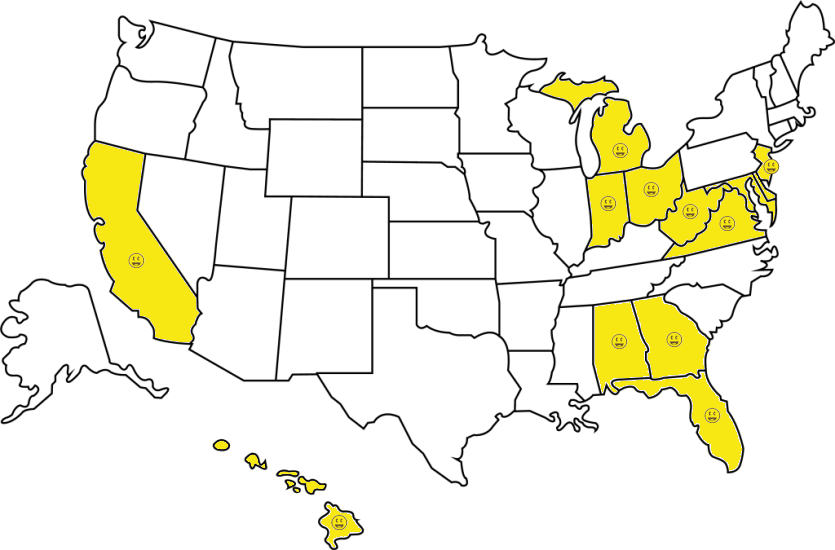
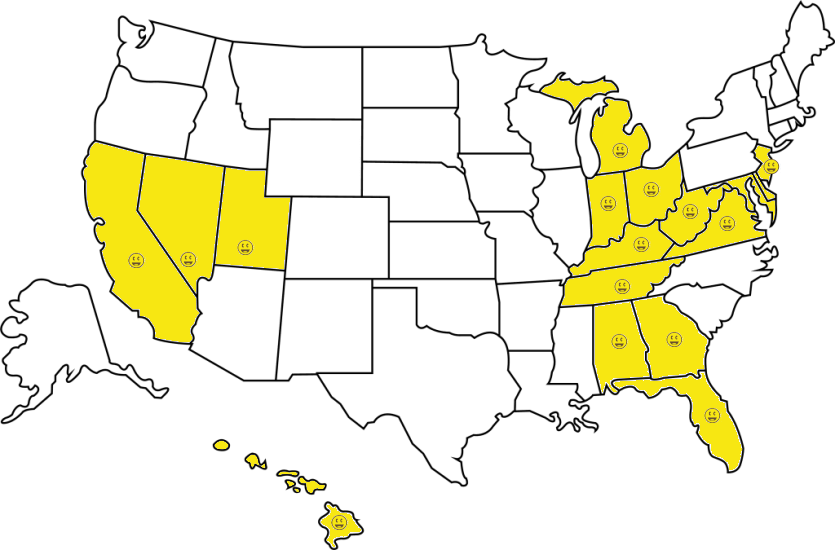
Add TN and KY

Changed region(s): [[0.1557, 0.2782, 0.3425, 0.5255], [0.6539, 0.4018, 0.8096, 0.5564]]

diff --git a/caa.md b/caa.md
@@ -7,7 +7,7 @@
 <br />
 </p>
 
-### Log entries
+## Log entries
 
 | State         | Date                                                        |
 | ------------- | ----------------------------------------------------------- |
@@ -26,16 +26,18 @@
 | Utah          | [2025-12-22](https://www.geocaching.com/live/log/GL1FR4HRK) |
 | Nevada        | [2025-12-23](https://www.geocaching.com/live/log/GL1FR85CT) |
 | Hawaii        | [2026-04-16](https://www.geocaching.com/live/log/GL1GB5Y7F) |
+| Tennessee     | [2026-07-03](https://www.geocaching.com/live/log/GL1GVV6AM) |
+| Kentucky      | [2026-07-03](https://www.geocaching.com/live/log/GL1GVV6VK) |
 
-### My journey
+## My journey
 
-#### 2015
+### 2015
 
 I happened to find the original California CAA cache in my first week of
 caching. It was located very close to my work at the time. I had no idea what
 CAA was. My log was simply "TFTC". Such a neophyte.
 
-#### 2024
+### 2024
 
 I first heard about the CAA series from
 [this Reddit thread](https://www.reddit.com/r/geocaching/comments/1g3tla6/mustcache_in_washington_dc_area/),
@@ -70,7 +72,7 @@ only light I had during the search was my phone's flashlight.
 New Jersey
 </p>
 
-#### 2025
+### 2025
 
 Early this year, I decided to attend
 [GeoWoodstock XXI](http://geowoodstockxxi.com). As I do whenever I travel, I
@@ -291,7 +293,7 @@ Vegas, on a surprisingly cloudy day. We even got rain on our drive back.
 Nevada
 </p>
 
-#### 2026
+### 2026
 
 After a long deliberation about where to go for the kids' spring break, we
 settled on Hawai'i. I made sure the trip included a few days in Oahu so I could
@@ -306,7 +308,47 @@ I awarded the cache a favorite point for the scenery.
 Hawai'i
 </p>
 
+Fast forward to the middle of summer. My older son was spending four weeks at
+camps in Pittsburgh, PA, and I needed to go pick him up. By now you know the
+routine: how can I extend this trip to get as manny CAA's as reasonable? At
+first I wasn't sure how much time I would be able to allocate to this trip; 
+at one point I even considered flying to as far away from my destination as
+Texas and driving all the way from there. In the end I had enough time to
+spend a day attempting Tennessee and Kentucky before arriving in Pittsburgh
+the next day.
 
+Being a "car guy", I reserved a fancy car (as close to a sports car as a
+national chain would carry) from the rental place. When I arrived in Nashvile, I
+got a notification that my Jeep Grand Cherokee was ready. This was not quite
+what I had in mind, so I went to the rental counter to see if there were other
+options, or if not, if I could at least get a refund. After searching for a
+while, the attendant said they had a Genesis available. "I'll take it", I said.
+Only after I started the car did I realize it was an entirely electric vehicle,
+and the attendant had not told me. By now it was 2:00 a.m., the counter was
+closed, and I had 500 miles to drive the next day. I went to the hotel, got a
+few hours of sleep, and went to the closest branch of said chain the next day.
+The window was open, but no one came to the desk after ten minutes. "Well", I
+figured, "this is the kind of challenge that makes for a good story in the end.
+Let's see what happens". After researching how to charge the car, I set out for
+the Tennessee CAA. Other than the oppressive heat and humidity, I had no trouble
+with it.
+
+<p style="text-align: center; font-style: italic">
+<img src="caches/caa/tn.png" alt="Tennessee" title="Tennessee">
+<br />
+Tennessee
+</p>
+
+After a nice stop at the National Corvette Museum, where I charged my car (it
+felt kind of strange bringing an EV to a muscle car mecca), I soon arrived at
+the park where the Kentucky cache is. I missed the turn-in to the parking
+waypoint, so I parked quasi-legally to retrieve this one.
+
+<p style="text-align: center; font-style: italic">
+<img src="caches/caa/ky.png" alt="Kentucky" title="Kentucky">
+<br />
+Kentucky
+</p>
 
 
 
